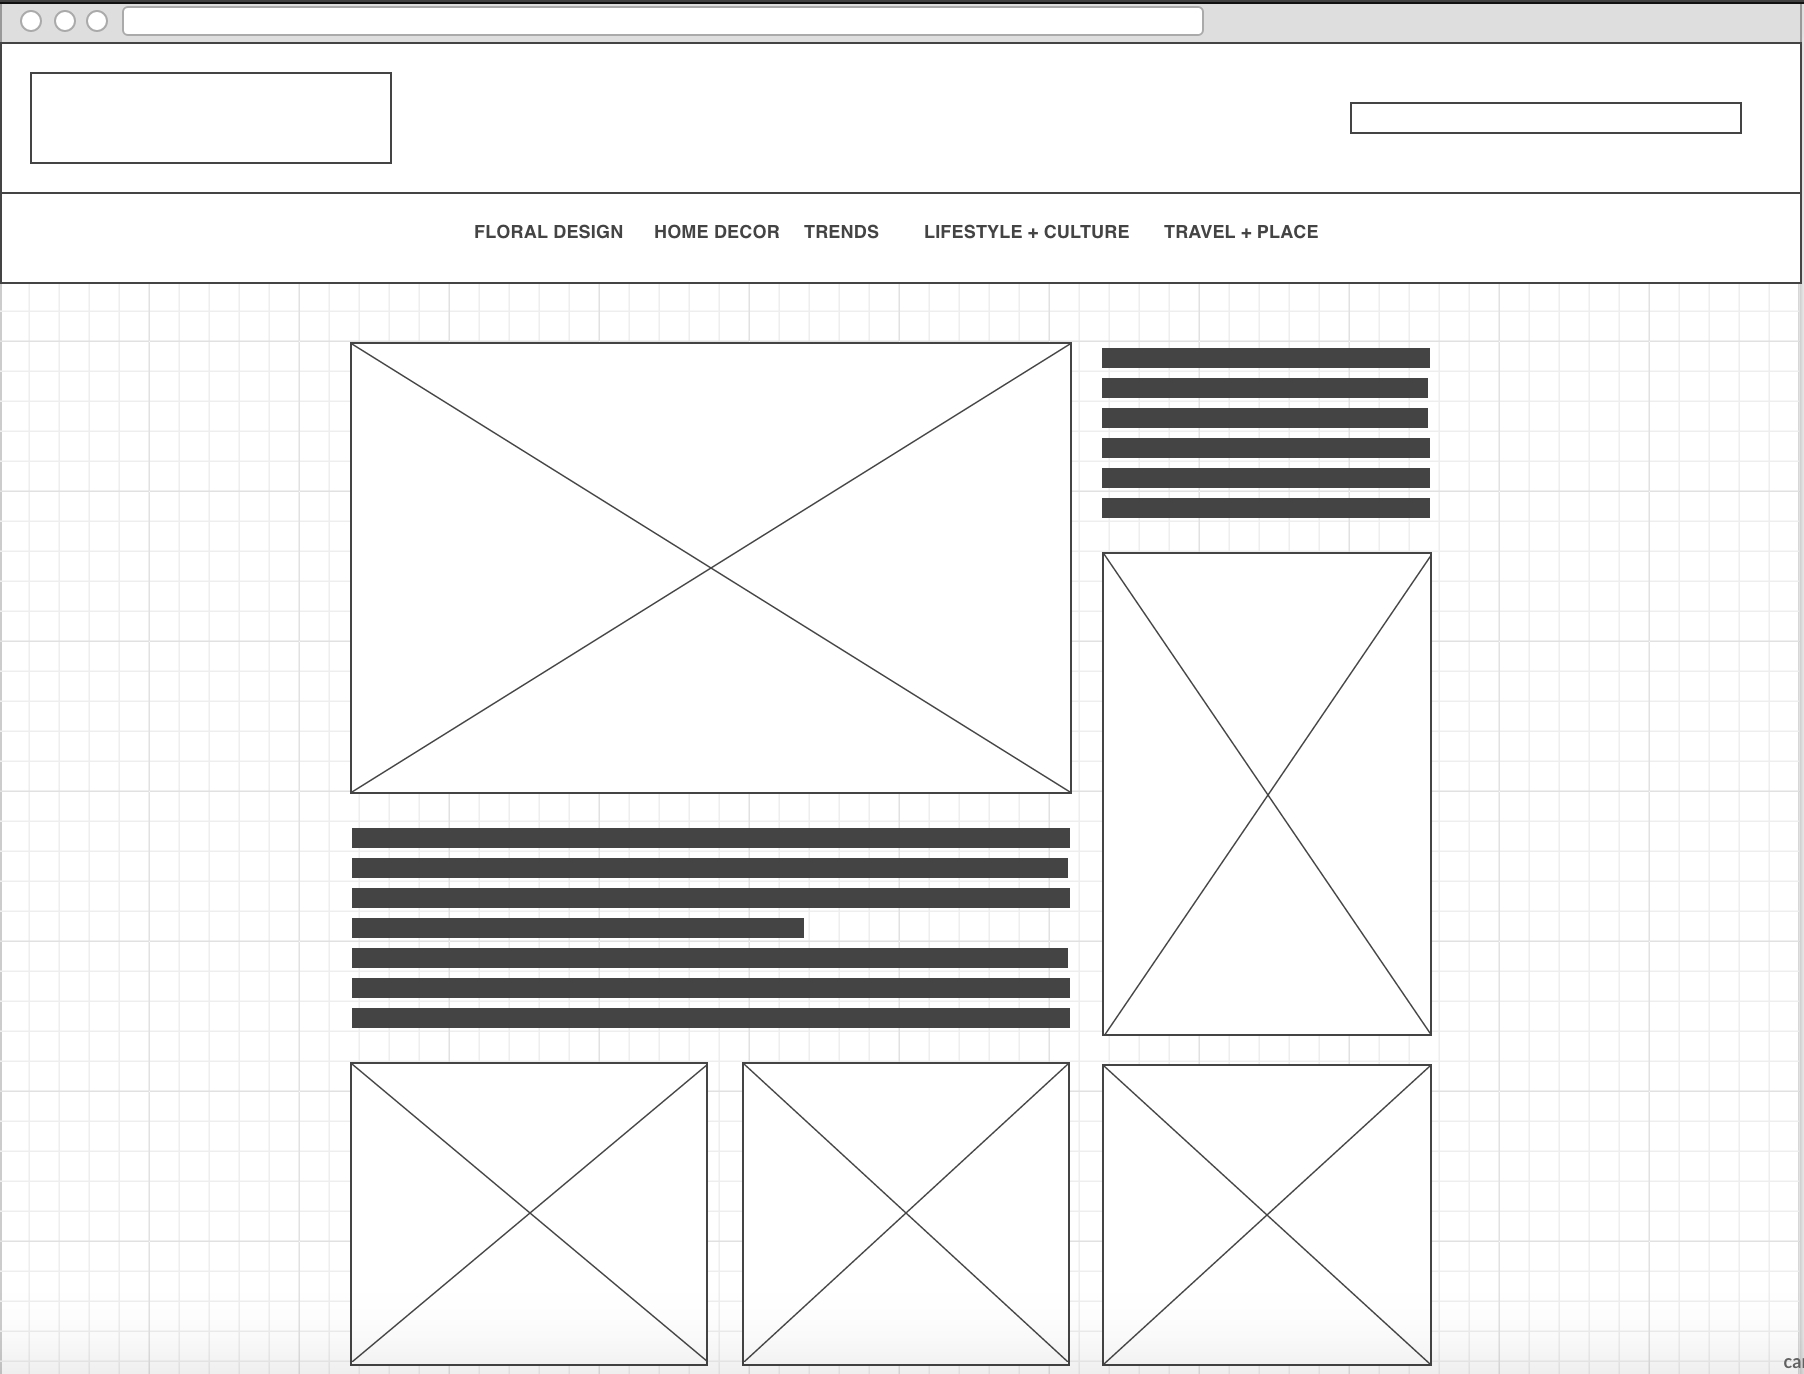
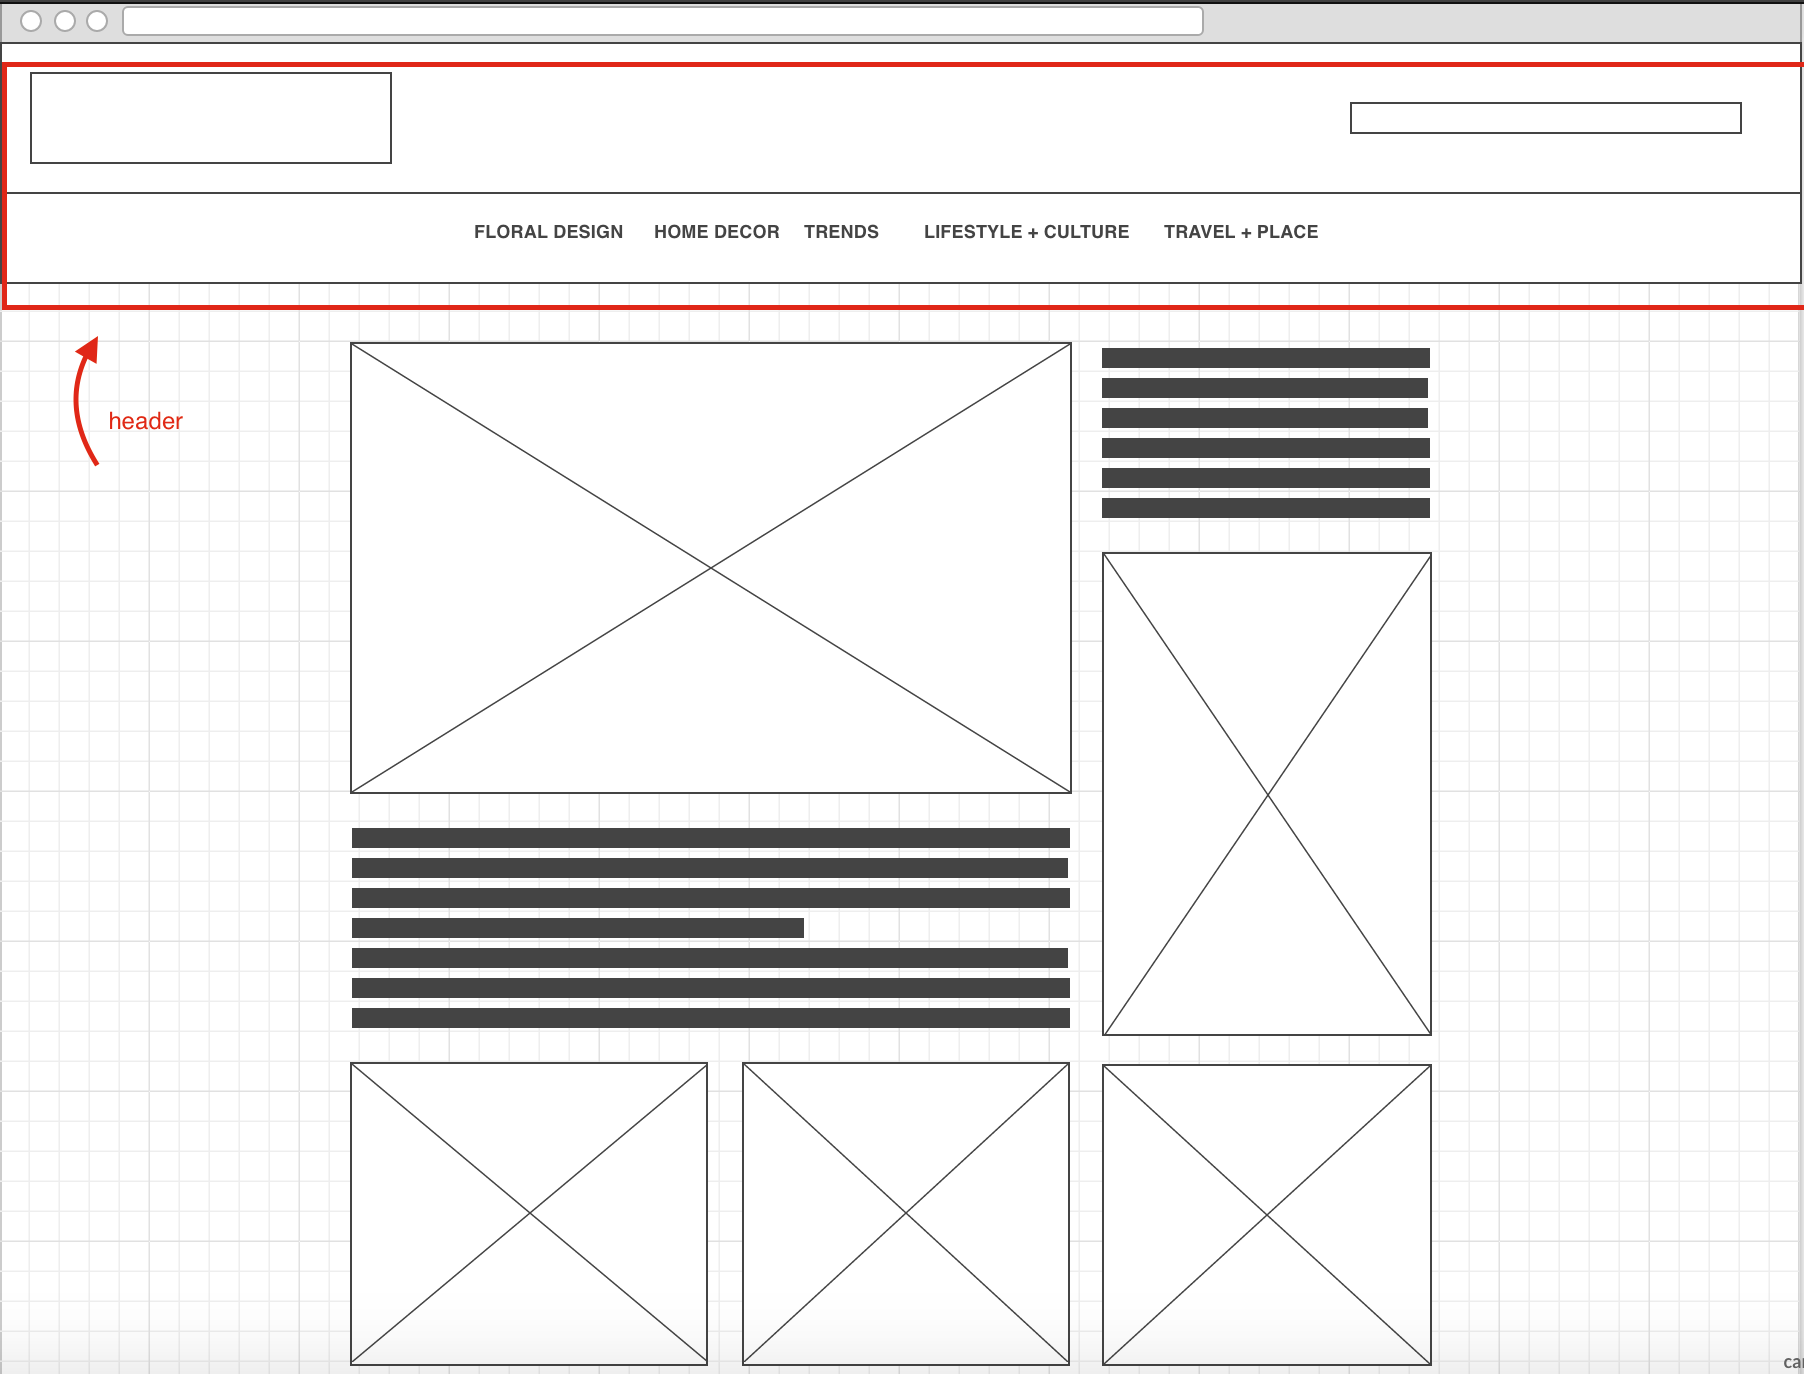
unit 5
unit 5

Changed region(s): [[0.0, 0.214, 1.0, 0.3362], [0.0, 0.0306, 1.0, 0.0611]]

diff --git a/unit_5/index.html b/unit_5/index.html
@@ -1,0 +1,67 @@
+<!DOCTYPE html>
+<html>
+	<head>
+		<title>Vase + Vessel</title>
+ 		
+ 		<link href="https://fonts.googleapis.com/css?family=Muli|Ovo" rel="stylesheet">
+		<link rel="stylesheet" type="text/css" href="css/style.css">
+	</head>
+	
+	<body>
+		<div class="wrapper">
+		<header>
+			<h1>VASE & VESSEL</h1>
+			<h3 id="slogan">A blog about flowers and the stories they tell.</h3>
+		</header>
+		<nav>
+			<a href="#">FLORAL DESIGN</a>
+			<a href="#">TRENDS</a>
+			<a href="#">LIFESTYLE + CULTURE</a>
+			<a href="#">SHOP ACCENT DECOR</a>
+		</nav>
+
+	<main>
+
+		<section id="feature">
+		<p>Lorem ipsum dolor sit amet, consectetur adipisicing elit, sed do eiusmod
+		 tempor incididunt ut labore et dolore magna aliqua. Ut enim ad minim veniam,
+		 quis nostrud exercitation ullamco laboris nisi ut aliquip ex ea commodo
+		 consequat. Duis aute irure dolor in reprehenderit in voluptate velit esse
+		 cillum dolore eu fugiat nulla pariatur. Excepteur sint occaecat cupidatat non
+		 proident, sunt in culpa qui officia deserunt mollit anim id est laborum.</p>
+		</section>
+
+		<section id="one">
+			<article class="excerpt">
+			<h3>Color Blocking</h3>
+			<h5>by Christina | 30 August 2016</h5>
+			<img src="images/himba.jpg">
+			<p>Lorem ipsum dolor sit amet, consectetur adipisicing elit, sed do eiusmod
+			tempor incididunt ut labore et dolore magna aliqua. Ut enim ad minim veniam,
+			quis nostrud exercitation ullamco laboris nisi ut aliquip ex ea commodo
+			consequat. Duis aute irure dolor in reprehenderit in voluptate velit esse
+			cillum dolore eu fugiat nulla pariatur. Excepteur sint occaecat cupidatat non
+			proident, sunt in culpa qui officia deserunt mollit anim id est laborum.</p>
+			<p align="right"><a href="#">Read More ---></a></p>
+			</article>
+		
+			
+			<aside class="suggestions">
+				<p align="right"><a href="#">Recent Posts ---></a></p>
+				<h4>Let's Take a Celfie</h4>
+				<h4>Royal Wedding Trends</h4>
+				<h4>Showroom Design Inspiration</h4>
+
+			</aside>
+			</main>
+
+		</section>
+		<footer>
+
+		</footer>
+		</div>
+
+	
+	</body>
+
+</html>

diff --git a/unit_5/css/style.css b/unit_5/css/style.css
@@ -1,0 +1,108 @@
+* {
+	padding: 0;
+	margin: 0;
+	
+}
+
+body {
+	font-family: "Muli", sans-serif;
+	line-height: 1.5;
+	color: #666;
+	background: #FDFAF5;
+}
+
+h1, h2, h3 {
+	font-family: "ovo", serif;
+	font-size: 20px;
+	font-weight: 300;
+	color: #C0B6A5
+}
+
+h1 {
+	color: #C0B6A5;
+}
+
+p {
+	font-family: "muli", sans-serif;
+	font-size: 12px;
+	line-height: 1.5;
+	color: #666;
+
+}
+
+a {
+	color: #C0B6A5;
+	text-decoration: none;
+}
+
+Header {
+	margin: 0px 0 0 0;
+	text-align: center;
+	background-color: #FFED74;
+
+}
+
+Nav {
+	text-align: center;
+	font-size: 14px ;
+	color: #FDFAF5;
+	background: #E8C66A;
+	padding: 20px;
+	
+}
+
+Nav a {
+	color: #FDFAF5;
+	padding: 25px 25px;
+}
+	
+
+main {
+	margin: 25px 25px;
+	background: #FFE2B8;
+	width: 750px;
+	margin: 0 250px;
+	clear: both;
+
+
+}
+#feature {
+	padding: 20px;
+	margin: 10px 10px;
+		
+}
+
+#one {
+	width: 750px;
+	margin: 20px 0;
+	height: 506px;
+	
+}
+
+article {
+	
+	padding: 20px;
+	float: left;
+	background: #E89C6C;
+	width: 400px;
+	
+
+}
+
+
+aside {
+	float: right;
+	padding: 20px;
+	background: #FFC675;
+	width: 260px;
+	height: 92%;
+	
+	
+
+	
+
+}
+
+#wrapper {
+	width: 1080px;
+}
